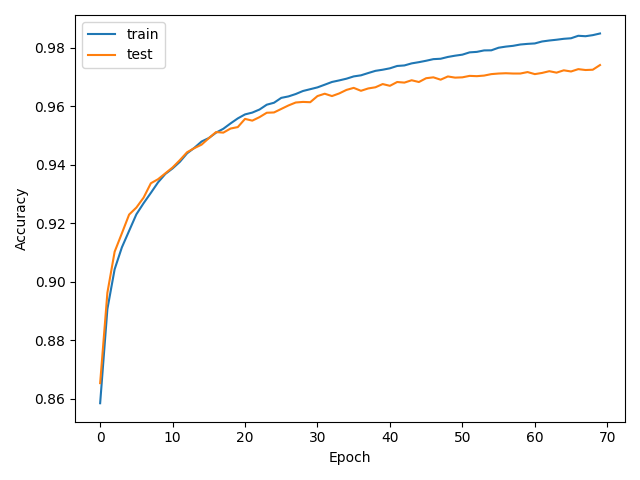
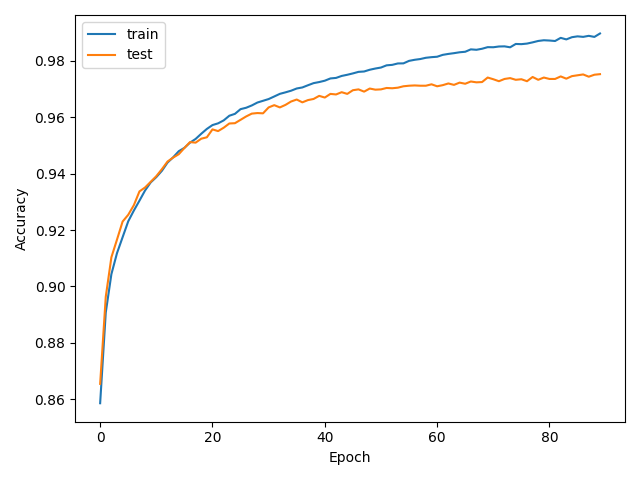
fix: altera o experimento 2 para 90 épocas

diff --git a/experiments/experimento_2.py b/experiments/experimento_2.py
@@ -4,7 +4,7 @@ from train import run_experiment
 
 
 HIDDEN_LAYERS = [128, 64]
-EPOCHS = 70
+EPOCHS = 90
 BATCH_SIZE = 128
 LEARNING_RATE = 0.01
 SEED = 42